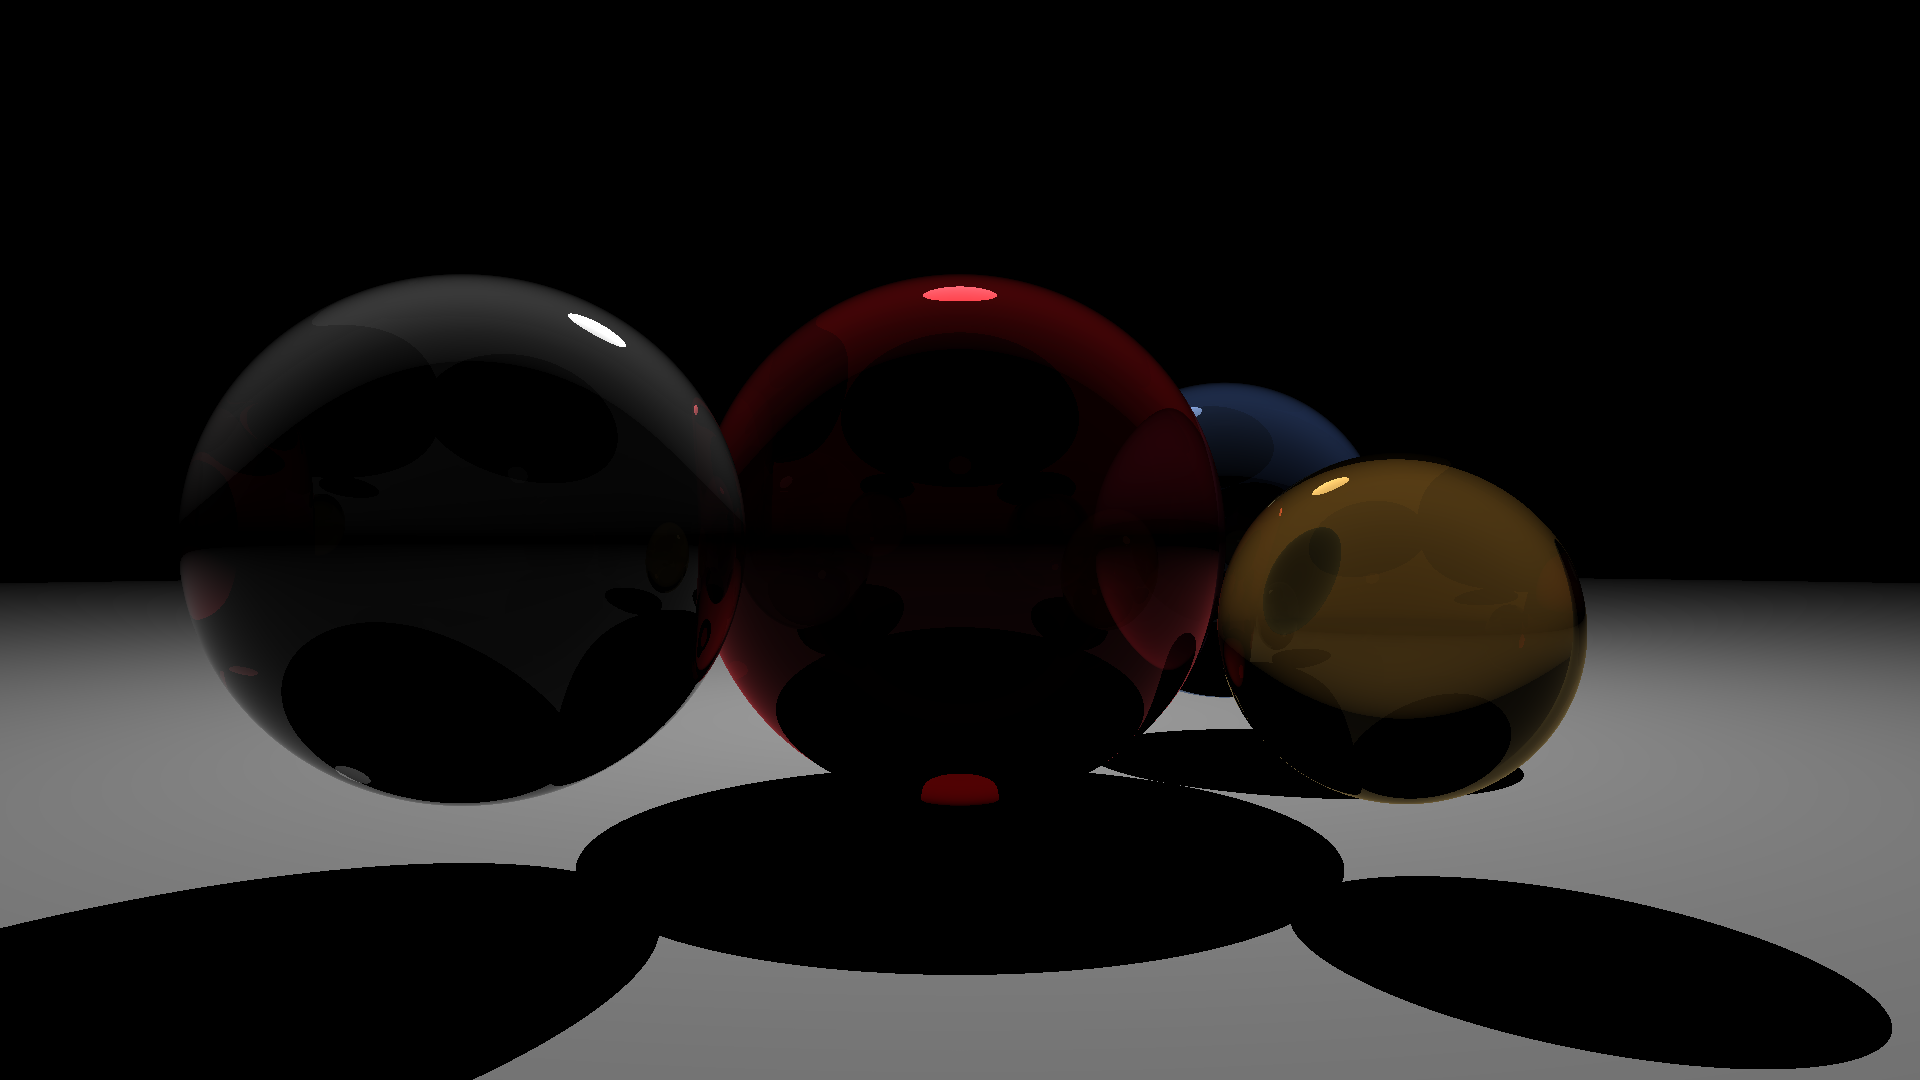
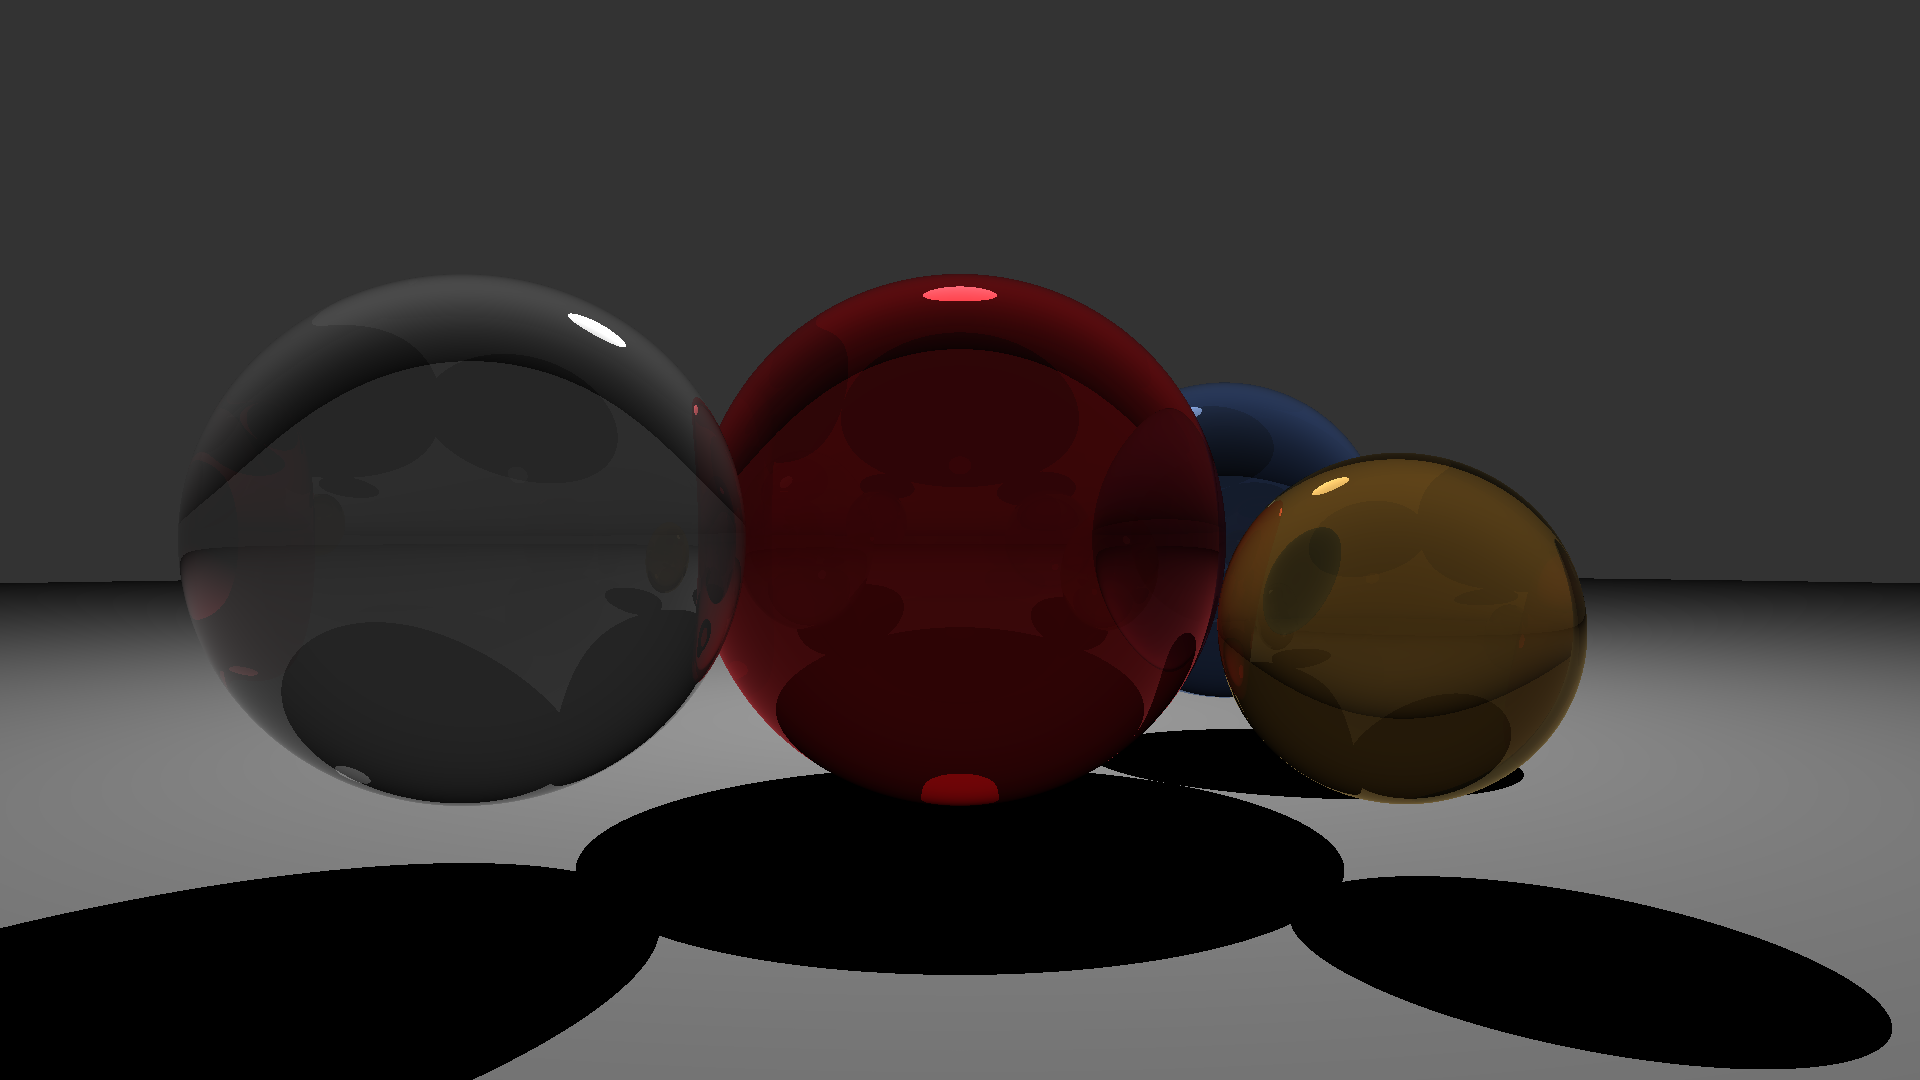
adjusted background colour

diff --git a/raytracer.cpp b/raytracer.cpp
@@ -75,7 +75,7 @@ Vec3f Raytracer::Trace(const Vec3f &origin, const Vec3f &direction,
 	}
 
 	//no intersection, return black
-	if(!sphere) return Vec3f(0);
+	if(!sphere) return Vec3f(.2f);
 
 	Vec3f surfaceColour = 0;
 	Vec3f hitPoint = origin + direction * tnear;
